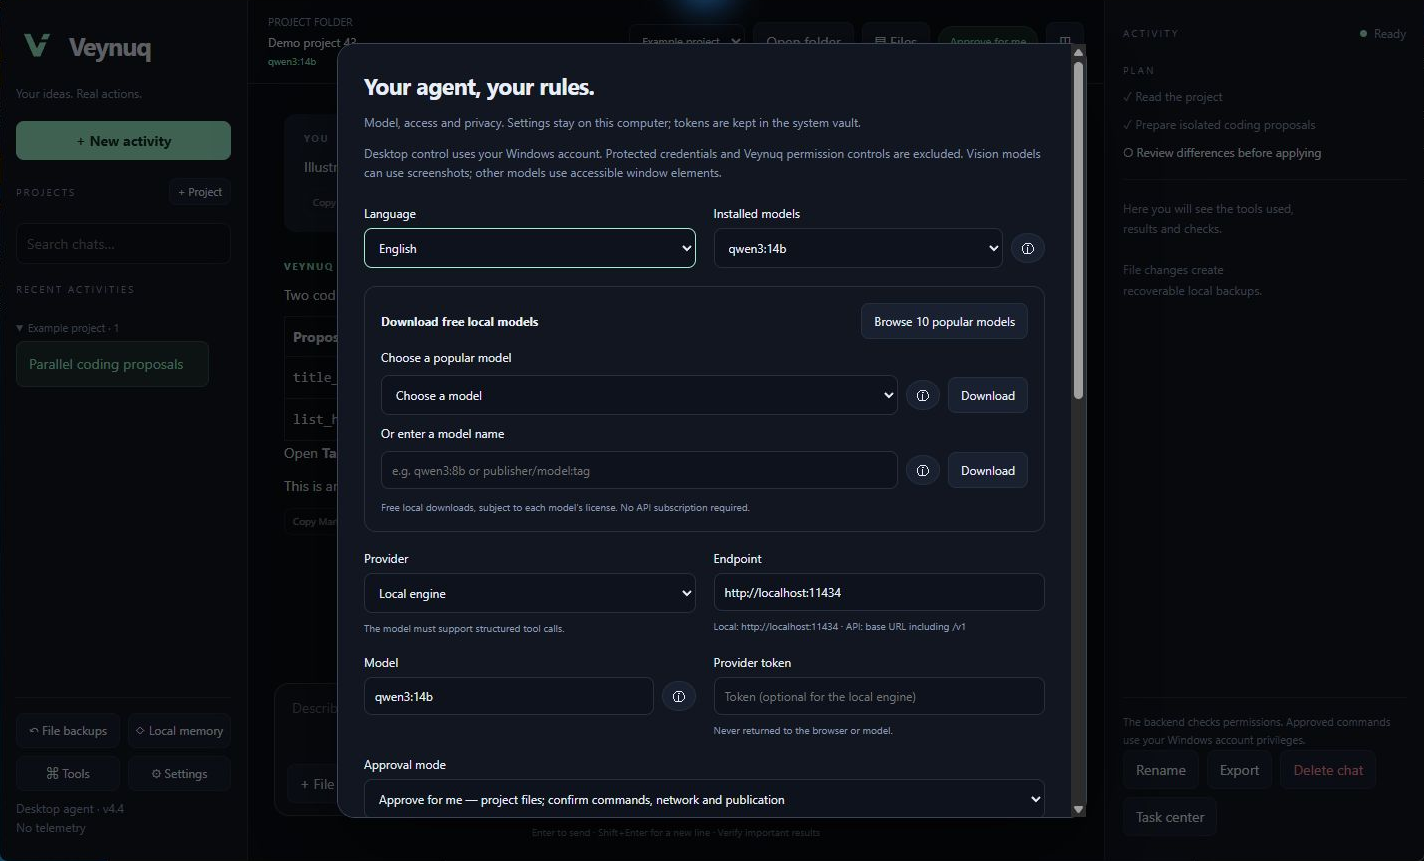
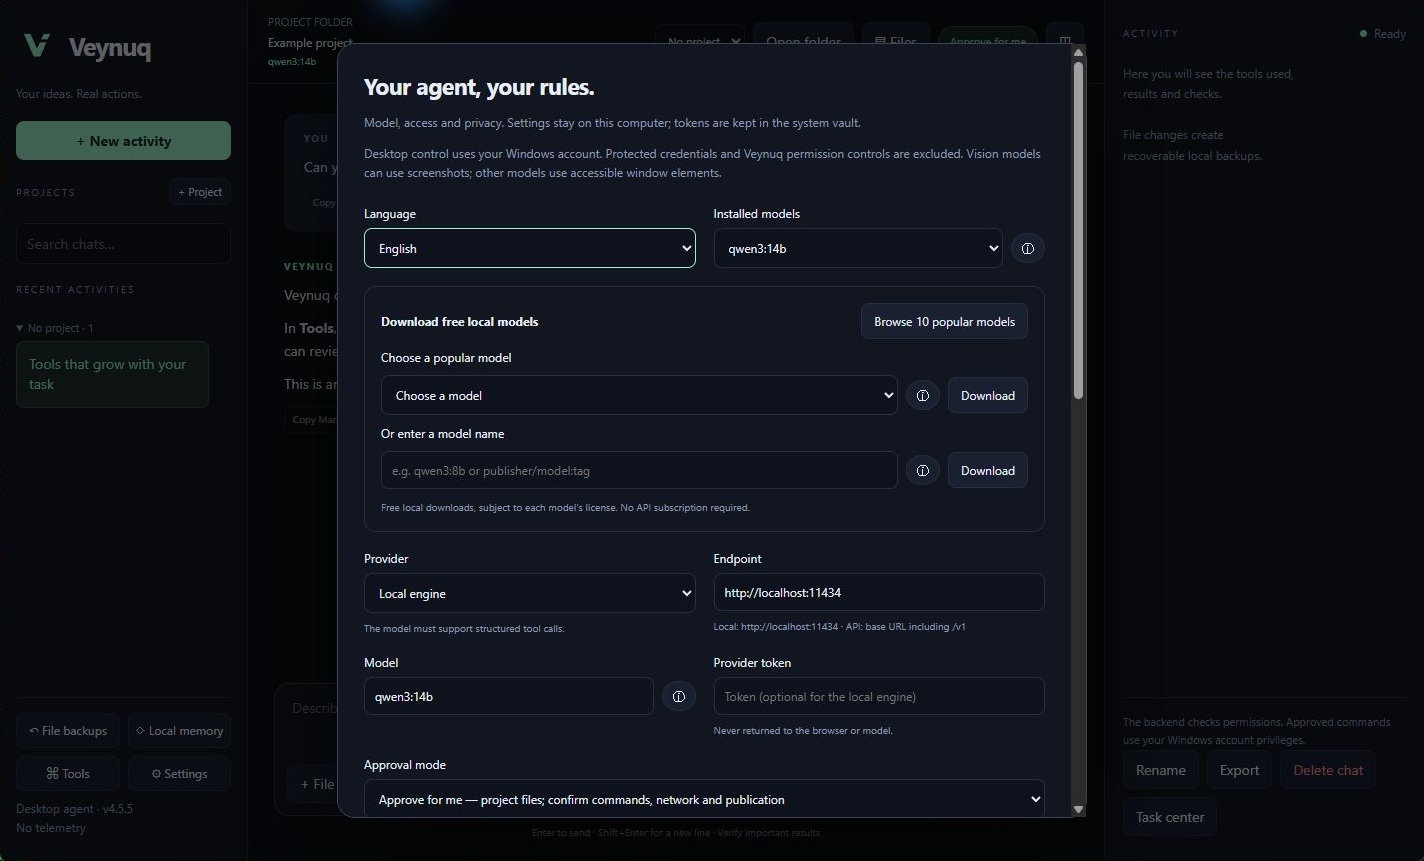
Refresh README capabilities and English application screenshots

diff --git a/README.md b/README.md
@@ -18,15 +18,15 @@ Use the release ZIP for installation. GitHub's **Source code** archives and **Co
 
 ## See Veynuq
 
-Three screenshots of the running Windows application in English with an isolated demo profile, including the local dictation button. The illustrative conversation contains no personal chat or credentials and is not a benchmark. New profiles start in English.
+Three screenshots of Veynuq 4.5.5 running on Windows in English with an isolated demo profile, including the local dictation button and optional-tool cleanup controls. The illustrative conversation contains no personal chat or credentials and is not a benchmark. New profiles start in English.
 
 **Workspace and conversation** — both user and agent messages are aligned left; the composer stays visible while history scrolls.
 
 ![Workspace and conversation](docs/screenshots/workspace.png)
 
-**Task center** — resumable progress, reusable procedures, change review and read-only schedules.
+**Optional tools** — remove only agent-added components or all optional additions, with a preview before confirmation. Built-in tools, models and conversations are kept.
 
-![Task center](docs/screenshots/explorer.png)
+![Optional tools and cleanup controls](docs/screenshots/tools.png)
 
 **Models and settings** — installed models, the ten-model download selector, custom names and information beside each model. Permissions and provider credentials are further down the same panel.
 
@@ -35,6 +35,9 @@ Three screenshots of the running Windows application in English with an isolated
 The [brand assets](assets/brand) include original [dark](assets/brand/logo-dark.svg) and [light](assets/brand/logo-light.svg) SVG/PNG logos and a Windows icon. The Desktop shortcut uses the dark icon.
 
 ## What it does
+
+- **Tools on demand:** research and install a missing Python tool or supported marketplace plugin, then use it to finish and verify the task. Installation follows your selected approval mode; accounts are requested only when needed.
+- **Optional-tool cleanup:** keep your own additions while removing agent-added tools, or remove all optional components managed by Veynuq. Both choices show the exact list before confirmation.
 
 The backend owns the model → tool → result loop. Markdown code fences never execute commands. Actions use validated structured tool calls, and failures return the actual error/output to the model for correction.
 
@@ -104,7 +107,7 @@ Transcription runs locally on CPU using faster-whisper/CTranslate2 and automatic
 
 **Review changes** displays additions and removals with separate colors, including unstaged, staged and new Git files. Outside Git, it compares available file backups. Sandbox changes are shown separately through the agent's review tool and are also included in Task center. Binary and large output is bounded. Review does not publish or merge anything.
 
-Five reusable procedures cover coding, desktop work, repository setup, code review and documents. Up to three model workers can investigate independent questions concurrently. Workers can only read/search/list files inside the selected project; they cannot execute commands, write files, browse, control the PC or delegate again. The main agent performs the changes. `git_worktree` creates a separate generated branch and sibling checkout from a clean repository, with checkout hooks disabled. Select that folder as the project for isolated coding and review before merging.
+Six reusable procedures cover coding, desktop work, repository setup, code review, documents and obtaining missing tools. Up to three model workers can investigate independent questions concurrently. Workers can only read/search/list files inside the selected project; they cannot execute commands, write files, browse, control the PC or delegate again. The main agent performs the changes. `git_worktree` creates a separate generated branch and sibling checkout from a clean repository, with checkout hooks disabled. Select that folder as the project for isolated coding and review before merging.
 
 In **Settings → Command environment**, select **Offline sandbox** to execute Linux `/bin/sh` commands on a filtered disposable project copy. This requires an installed, running local Docker Linux engine and the cached `python:3.13-slim` image. To prepare the image, run `docker pull python:3.13-slim` after installing Docker. Veynuq refuses remote Docker endpoints and never falls back to Windows host execution when isolation is unavailable. Containers have no network, a read-only root, dropped capabilities, no new privileges, an unprivileged user, and process/CPU/memory limits. Only the disposable copy is mounted. Credentials, profile data, Git metadata and dependency folders are excluded. Copies are limited to 20 MB, 2000 files and 2 MB per file; output size is monitored, not a filesystem disk quota. Sandbox mode is suitable for small code tasks; it is not a Windows GUI virtual machine.
 
@@ -152,13 +155,11 @@ When a task needs an additional capability, the agent can research official docu
 
 The `plugin_marketplace` tool searches public GitHub marketplaces, reviews an immutable source commit and installs the reviewed plugin. It uses the existing plugin runtime and normal network/approval settings. Full access allows task-relevant installation without another confirmation; other modes keep their approval gates. Disabled tools/plugins and the offline command sandbox cannot be bypassed. Accounts are requested only when the selected service actually needs them. Installation alone is not proof that the original task succeeded: the agent must use the tool and verify its output.
 
-`inspect_binary` reads PE/ELF metadata, SHA-256 and bounded strings without running an executable. EXE/DLL files are compiled programs, not UTF-8 source. Deeper analysis may require an appropriate decompiler; reconstructed code is approximate and cannot generally reproduce the original source exactly.
-
 In **Tools → Optional tools**, **Remove agent-added tools** keeps manually installed plugins and all components with unknown installation history. **Remove all optional tools** removes both user and agent additions. Each button previews the exact list before confirmation; a changed inventory invalidates the preview. Cleanup removes profile-managed plugins (including their saved credentials) and optional Python environments. Built-in tools, models, conversations, memory and generated project files are kept. Globally installed applications and packages outside this inventory are not removed. Newly installed components record their user/agent origin across restarts.
 
 ## File reading and local HTTP completion in 4.5.4
 
-`read_file` reads UTF-8 (with or without a BOM) and BOM-marked UTF-16 text. Executables, NUL-containing binary files and unsupported encodings produce a readable diagnostic instead of a raw decoder exception. PDF/DOCX and image files must use their dedicated tools. Rejected reads do not alter the file or count as verification of a completed edit.
+`read_file` reads UTF-8 (with or without a BOM) and BOM-marked UTF-16 text. Unsupported file content produces a readable diagnostic instead of a raw decoder exception. PDF/DOCX and image files use their dedicated tools. Rejected reads do not alter the file or count as verification of a completed edit.
 
 The local model client consumes the HTTP response to its end after the final JSON line, preserving cancellation and checking unexpected trailing data. Closing a fully consumed response lets the connection be reused normally. Existing bounded retries remain available for backend socket resets; persistent upstream failures still report an error. This does not claim every reset in Ollama is eliminated.
 
@@ -182,11 +183,11 @@ Generic image capability questions such as “Can you create images?” can be a
 
 Open **Settings → Image engine ⓘ** for the translated setup guide. Select **Built-in local engine — SD 1.5 (CPU)**, click **Prepare local image engine**, save Settings, then use **Test image engine**. The optional Windows x64 download is approximately 4.3 GB; allow about 5 GB of disk space and preferably 16 GB RAM. These memory figures are estimates, not a universal hardware guarantee. No image account, subscription or local HTTP server is required. In chat, ask Veynuq to generate an image and save its PNG in the linked folder. The default size is 512×512, with a managed maximum of 768 pixels per side. CPU generation can take several minutes. SD 1.5 suits illustrations and simple compositions; fine text and complex scenes are less reliable than with newer image models.
 
-The app pins stable-diffusion.cpp and SD 1.5 to exact upstream revisions and SHA-256 hashes. Executable files, DLLs and model weights are verified before every inference; unexpected DLLs are refused. Installation preserves previous binaries in the private profile. Stop terminates the owned image process tree and removes its temporary prompt/output. The app checks for cancellation and a changed destination before saving an actual PNG. A source/model download contacts GitHub and Hugging Face; inference itself runs offline. A remote chat model still receives the conversational context even when image inference is local. Engine and model license notices are retained beside the private downloaded files. Existing local Stable Diffusion APIs and compatible remote image APIs remain available; remote services can require a vault token and charge for generation.
+The app pins stable-diffusion.cpp and SD 1.5 to exact upstream revisions and SHA-256 hashes. Engine components and model weights are verified before every inference; unexpected libraries are refused. Installation preserves previous binaries in the private profile. Stop terminates the owned image process tree and removes its temporary prompt/output. The app checks for cancellation and a changed destination before saving an actual PNG. A source/model download contacts GitHub and Hugging Face; inference itself runs offline. A remote chat model still receives the conversational context even when image inference is local. Engine and model license notices are retained beside the private downloaded files. Existing local Stable Diffusion APIs and compatible remote image APIs remain available; remote services can require a vault token and charge for generation.
 
 The model information panel now offers **Test autonomous actions**. This sends a synthetic request to the selected provider and allows only writing and rereading one literal temporary file; personal files, commands, desktop input and system settings are unavailable. A remote provider may charge for these test requests. Results persist locally for that provider/endpoint/model and describe this narrow test, not a certification for every task. Run it again after changing the model or its weights. On the development PC, `qwen3:14b` passed with two actual file calls; `qwen2.5-coder:14b` failed to finish the same test. Both outcomes are reported honestly.
 
-**Tools → Plugins → Plugin marketplace** reads a public GitHub Claude-format marketplace. Review a plugin's resolved source repository and exact commit before installation. The app downloads only that immutable source and stores its provenance; arbitrary registry sources and dependency installers are not run. Imported agent/output-style Markdown becomes `agent-…` / `style-…` reference procedures. The `plugin_extension` tool explicitly runs one declared command hook or performs a bounded stdio LSP query. It uses the same file hashes, online switch, disabled-tool checks and Always ask / Approve for me / Full access rules as other external code. Hooks do not run automatically at startup, skill loading or task completion, and their output cannot grant permissions. The adapter supports command hooks and common LSP symbols, definition, references, completion, signature and push diagnostics; capability gaps return errors or empty observations, not a type-safety guarantee. External servers need their own installed executable/dependencies. Full Claude runtime compatibility is not claimed.
+**Tools → Plugins → Plugin marketplace** reads a public GitHub Claude-format marketplace. Review a plugin's resolved source repository and exact commit before installation. The app downloads only that immutable source and stores its provenance; arbitrary registry sources and dependency installers are not run. Imported agent/output-style Markdown becomes `agent-…` / `style-…` reference procedures. The `plugin_extension` tool explicitly runs one declared command hook or performs a bounded stdio LSP query. It uses the same file hashes, online switch, disabled-tool checks and Always ask / Approve for me / Full access rules as other external code. Hooks do not run automatically at startup, skill loading or task completion, and their output cannot grant permissions. The adapter supports command hooks and common LSP symbols, definition, references, completion, signature and push diagnostics; capability gaps return errors or empty observations, not a type-safety guarantee. External servers need their own installed runtime and dependencies. Full Claude runtime compatibility is not claimed.
 
 The built-in `code_intelligence` tool and Jedi dependency are installed and enabled by default. It provides static Python navigation and syntax diagnostics without importing project source; references are confined to the current file. Trusted LSP plugins extend navigation to other languages. Code analysis still needs meaningful tests to establish behavior. All 49 built-in tools have persistent individual switches. The agreed application functions are implemented; optional accounts, model quality and OS prerequisites still determine which tasks can be completed on a particular PC. Veynuq is an independent agent and does not reproduce proprietary Codex services or promise universal task success.
 
@@ -246,7 +247,7 @@ node --check app.js
 python app.py --self-check
 ```
 
-The 232 backend checks include controlled profile-lock handoff, background installation integrity, isolated desktop filtering, actual image-worker HTTP/pixel validation, artifact ownership, cancellation, model capabilities/context limits, safe transport retries and mutation verification. Windows validated the scheduled-task XML using validate-only mode; no task was registered. Automated image API tests use controlled fixtures. A separate real offline CPU run of the pinned SD 1.5 model produced a valid 512×512 PNG on the development PC in about 221 seconds, including preparation verification. A separate controlled `qwen3:14b` agent run used `generate_image`, wrote a 256×256 PNG and reopened it with `view_image`; the task completed in about 101 seconds. No paid image service was used. Windows Sandbox is absent on the development PC, so its guest interaction is not claimed as live-tested. The backend checks and UI suite also cover approval denial, process cancellation/timeouts, persistent cwd, memory/project scoping, immediate follow-ups, actual chat removal, action-intent repair, questions, partial HTTP cancellation, recovery, credential paths, literal keyboard input, mouse targeting/drag cleanup, deep Windows accessibility trees, stale control identity, read-only fields, download integrity, backup restoration, Markdown sanitation, four-language switching, signed updates and rollback. An isolated real Edge test filled an input, clicked a button and rejected reuse of the previous observation. A live `qwen3:14b` desktop run typed into an isolated test window, selected its checkbox, resumed after a local model backend interruption, clicked its verification button and inspected the resulting PASS. All eight native tool calls succeeded; unrelated Windows applications and tools were blocked by the test harness. Another live `qwen3:14b` run received a follow-up during generation, changed and reread an actual file and verified the saved result. Earlier live runs cloned `octocat/Hello-World`, wrote a validation script and ran it successfully with Python. Windows mouse/key dispatch has controlled regression checks; a separate live-model desktop test uses a disposable test window with all unrelated tools/windows blocked. Visual QA covers the real Veynuq app. The Docker test runs in an isolated Linux CI job because Docker is not installed on the development PC. This does not verify every third-party Windows application's accessibility behavior. The missing language-engine installer path is checked structurally and with mocks because it is already installed. The new image engine was actually downloaded, SHA-256 verified and used for inference. Version 4.5.5 also passed a controlled real PyPI download and use of pefile, environment reuse and both cleanup scopes. A live qwen3:14b run independently inspected and installed pefile, inspected a trusted executable without running it, wrote a report and reread it. Test harnesses confined all of these actions to disposable profiles and project fixtures.
+The 232 backend checks include controlled profile-lock handoff, background installation integrity, isolated desktop filtering, actual image-worker HTTP/pixel validation, artifact ownership, cancellation, model capabilities/context limits, safe transport retries and mutation verification. Windows validated the scheduled-task XML using validate-only mode; no task was registered. Automated image API tests use controlled fixtures. A separate real offline CPU run of the pinned SD 1.5 model produced a valid 512×512 PNG on the development PC in about 221 seconds, including preparation verification. A separate controlled `qwen3:14b` agent run used `generate_image`, wrote a 256×256 PNG and reopened it with `view_image`; the task completed in about 101 seconds. No paid image service was used. Windows Sandbox is absent on the development PC, so its guest interaction is not claimed as live-tested. The backend checks and UI suite also cover approval denial, process cancellation/timeouts, persistent cwd, memory/project scoping, immediate follow-ups, actual chat removal, action-intent repair, questions, partial HTTP cancellation, recovery, credential paths, literal keyboard input, mouse targeting/drag cleanup, deep Windows accessibility trees, stale control identity, read-only fields, download integrity, backup restoration, Markdown sanitation, four-language switching, signed updates and rollback. An isolated real Edge test filled an input, clicked a button and rejected reuse of the previous observation. A live `qwen3:14b` desktop run typed into an isolated test window, selected its checkbox, resumed after a local model backend interruption, clicked its verification button and inspected the resulting PASS. All eight native tool calls succeeded; unrelated Windows applications and tools were blocked by the test harness. Another live `qwen3:14b` run received a follow-up during generation, changed and reread an actual file and verified the saved result. Earlier live runs cloned `octocat/Hello-World`, wrote a validation script and ran it successfully with Python. Windows mouse/key dispatch has controlled regression checks; a separate live-model desktop test uses a disposable test window with all unrelated tools/windows blocked. Visual QA covers the real Veynuq app. The Docker test runs in an isolated Linux CI job because Docker is not installed on the development PC. This does not verify every third-party Windows application's accessibility behavior. The missing language-engine installer path is checked structurally and with mocks because it is already installed. The new image engine was actually downloaded, SHA-256 verified and used for inference. Version 4.5.5 also passed a controlled real PyPI package download and use, environment reuse and both cleanup scopes. A live qwen3:14b run independently inspected and installed a missing package, wrote a report and reread it. A separate controlled check installed a plugin from the official public marketplace at an exact source commit and verified its files. Test harnesses confined these actions to disposable profiles and project fixtures.
 
 The agent’s ability to finish a particular task still depends on the model, available tools, hardware, permissions and service responses. It does not guarantee frontier-model quality or successful control of every Windows application. MCP and compatible declarative plugin components are supported as described above; voice/video generation is not included. Dictation is speech input. Read-only schedules can run with the app closed after explicit opt-in, while the Windows user remains signed in.
 
